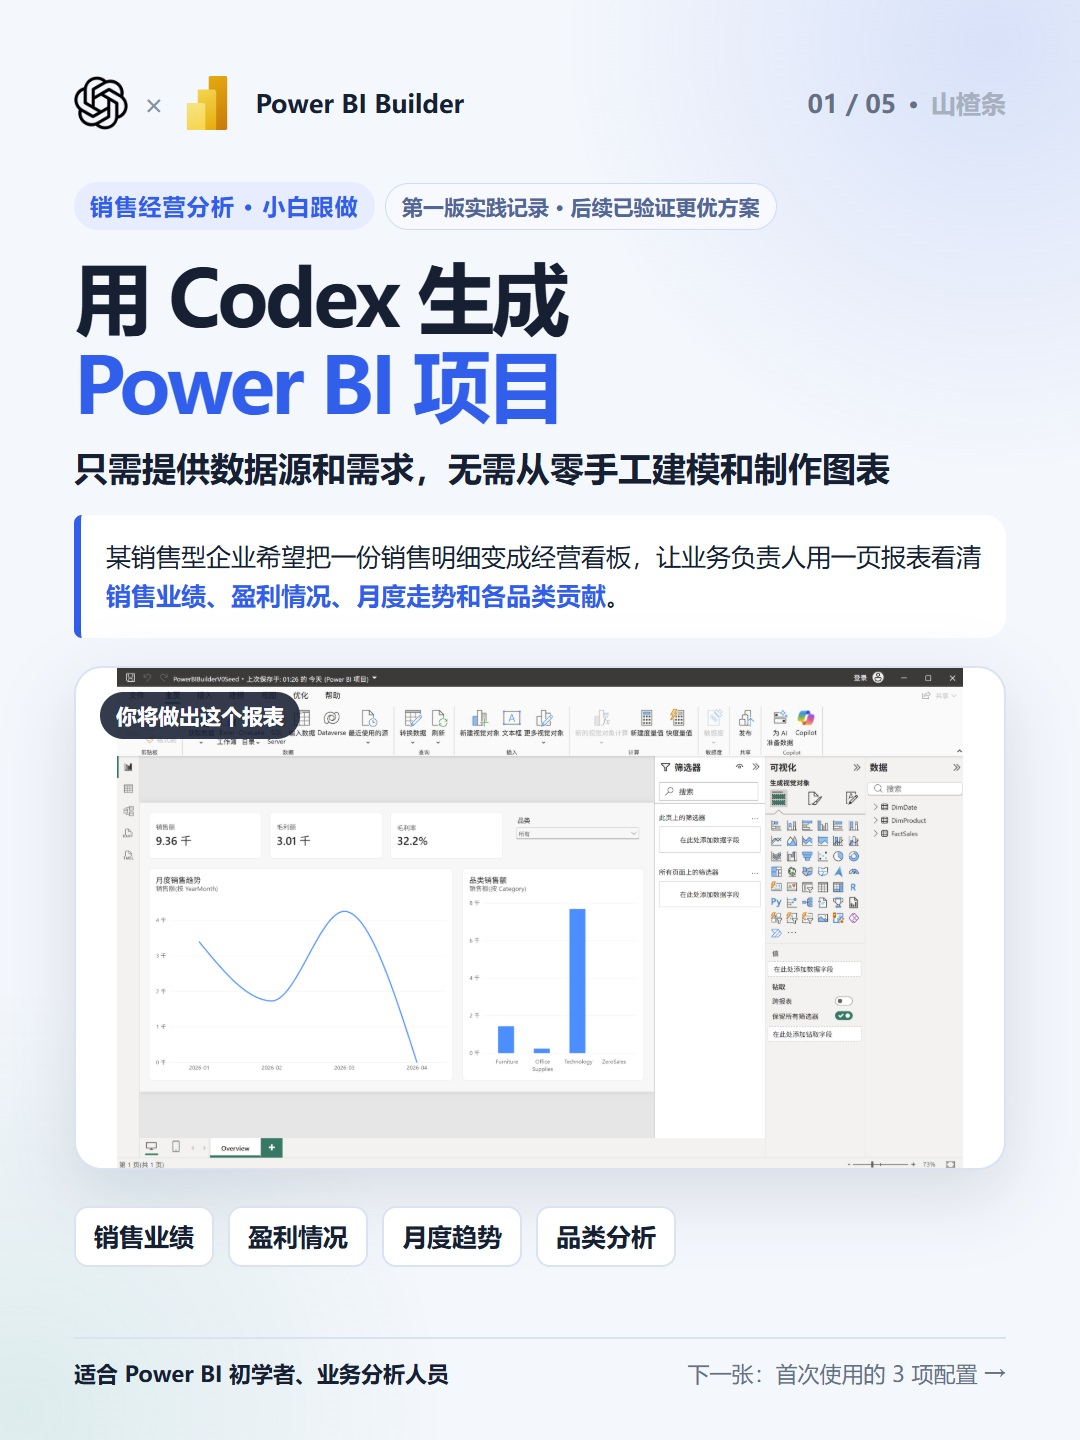
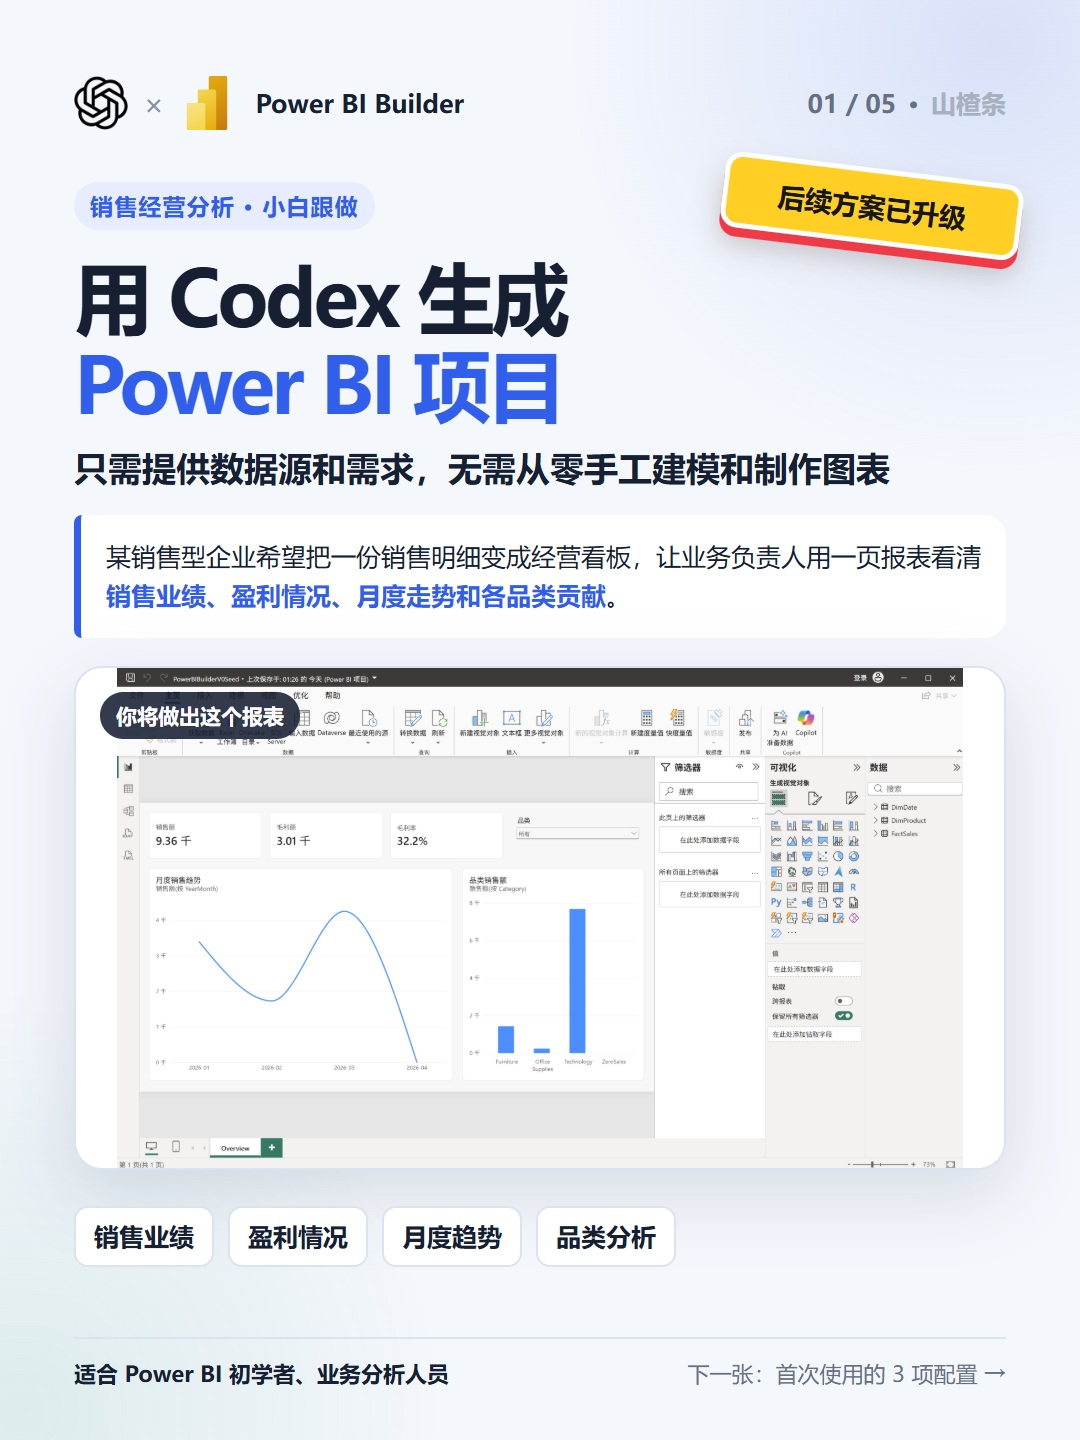
docs: highlight upgraded tutorial path on cover

Changed region(s): [[0.3667, 0.0938, 0.9472, 0.2188]]

diff --git a/tutorial/xhs/cards.html b/tutorial/xhs/cards.html
@@ -12,7 +12,7 @@
     .card::before{content:"";position:absolute;inset:0;background:radial-gradient(circle at 92% 3%,rgba(49,94,234,.14),transparent 25%),radial-gradient(circle at 2% 98%,rgba(19,134,111,.10),transparent 24%);pointer-events:none}
     .top{position:relative;display:flex;justify-content:space-between;align-items:center;margin-bottom:52px;font-size:25px;font-weight:800}
     .label{position:relative;display:inline-block;margin-bottom:22px;padding:9px 16px;border-radius:999px;color:var(--blue);background:#e7edff;font-size:23px;font-weight:800;letter-spacing:.05em}
-    .version-label{position:relative;display:inline-block;margin:0 0 22px 10px;padding:9px 16px;border:1px solid #cfdaff;border-radius:999px;color:#536797;background:#f7f9ff;font-size:21px;font-weight:800}
+    .cover-sticker{position:absolute;right:58px;top:168px;z-index:2;width:300px;padding:17px 20px;transform:rotate(7deg);border:5px solid #fff;border-radius:17px;color:#171717;background:#ffcf25;box-shadow:0 9px 0 #ef3a48,0 17px 28px rgba(67,42,8,.22);font-size:27px;font-weight:1000;line-height:1.2;text-align:center}
     h1,h2{position:relative;margin:0;letter-spacing:-.045em}h1{font-size:78px;line-height:1.12}h2{font-size:57px;line-height:1.18}h3{margin:0 0 13px;font-size:34px;line-height:1.3}.accent{color:var(--blue)}
     .footer{position:absolute;left:74px;right:74px;bottom:52px;display:flex;justify-content:space-between;padding-top:20px;border-top:2px solid var(--line);color:var(--muted);font-size:22px}.footer strong{color:var(--ink)}
     .chips{position:relative;display:flex;flex-wrap:wrap;gap:14px;margin-top:36px}.chip{padding:12px 18px;border-radius:14px;background:#fff;border:2px solid var(--line);font-size:25px;font-weight:700}
@@ -35,7 +35,7 @@
 <body>
   <section class="card" data-name="01-cover">
     <div class="top"><div class="tool-lockup" aria-label="Codex 与 Power BI"><img class="tool-icon" src="../assets/codex-app.png" alt="Codex"><span class="tool-x">×</span><img class="tool-icon" src="../assets/power-bi.png" alt="Power BI"><span class="tool-title">Power BI Builder</span></div><div class="author-meta"><span>01 / 05</span><span>·</span><strong>山楂条</strong></div></div>
-    <span class="label">销售经营分析 · 小白跟做</span><span class="version-label">第一版实践记录 · 后续已验证更优方案</span>
+    <span class="label">销售经营分析 · 小白跟做</span><span class="cover-sticker">后续方案已升级</span>
     <h1>用 Codex 生成<br><span class="accent">Power BI 项目</span></h1>
     <p class="cover-subtitle">只需提供数据源和需求，无需从零手工建模和制作图表</p>
     <div class="case-brief">某销售型企业希望把一份销售明细变成经营看板，让业务负责人用一页报表看清<strong>销售业绩、盈利情况、月度走势和各品类贡献</strong>。</div>
